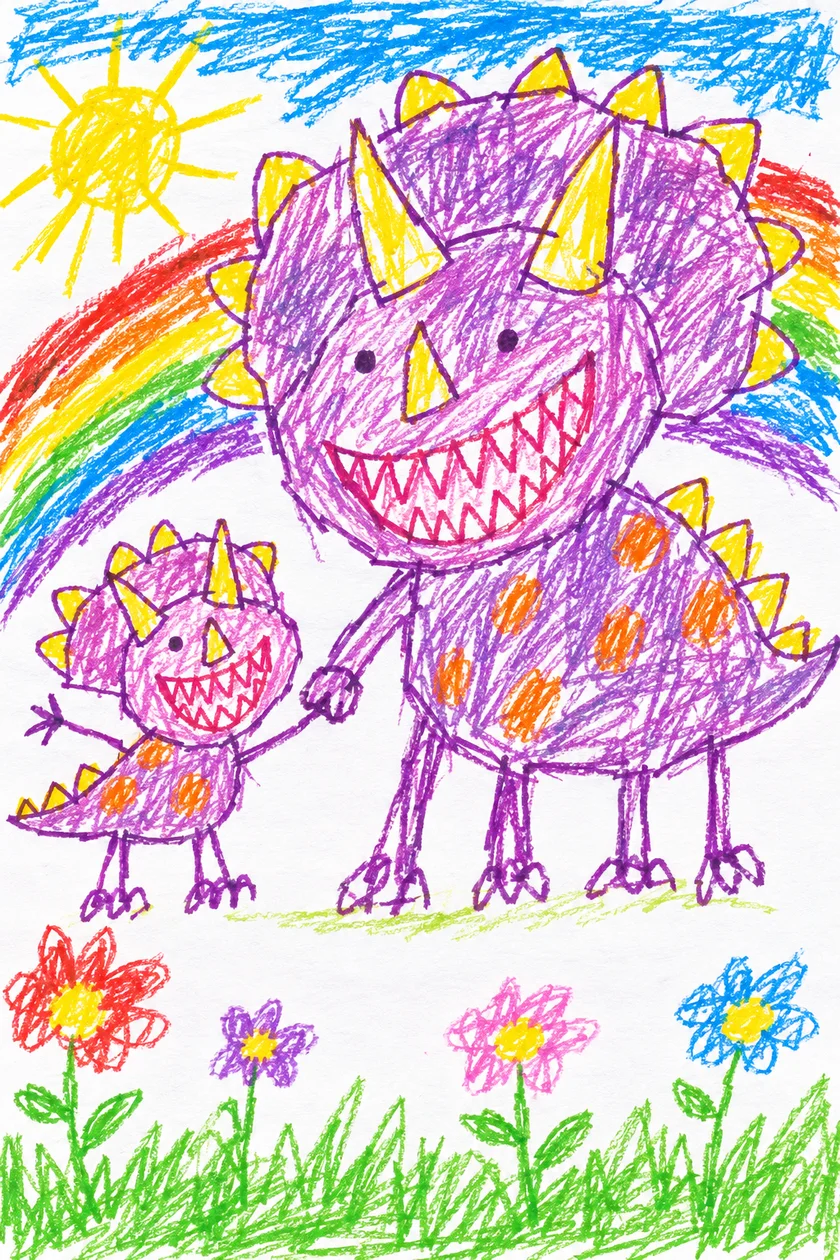
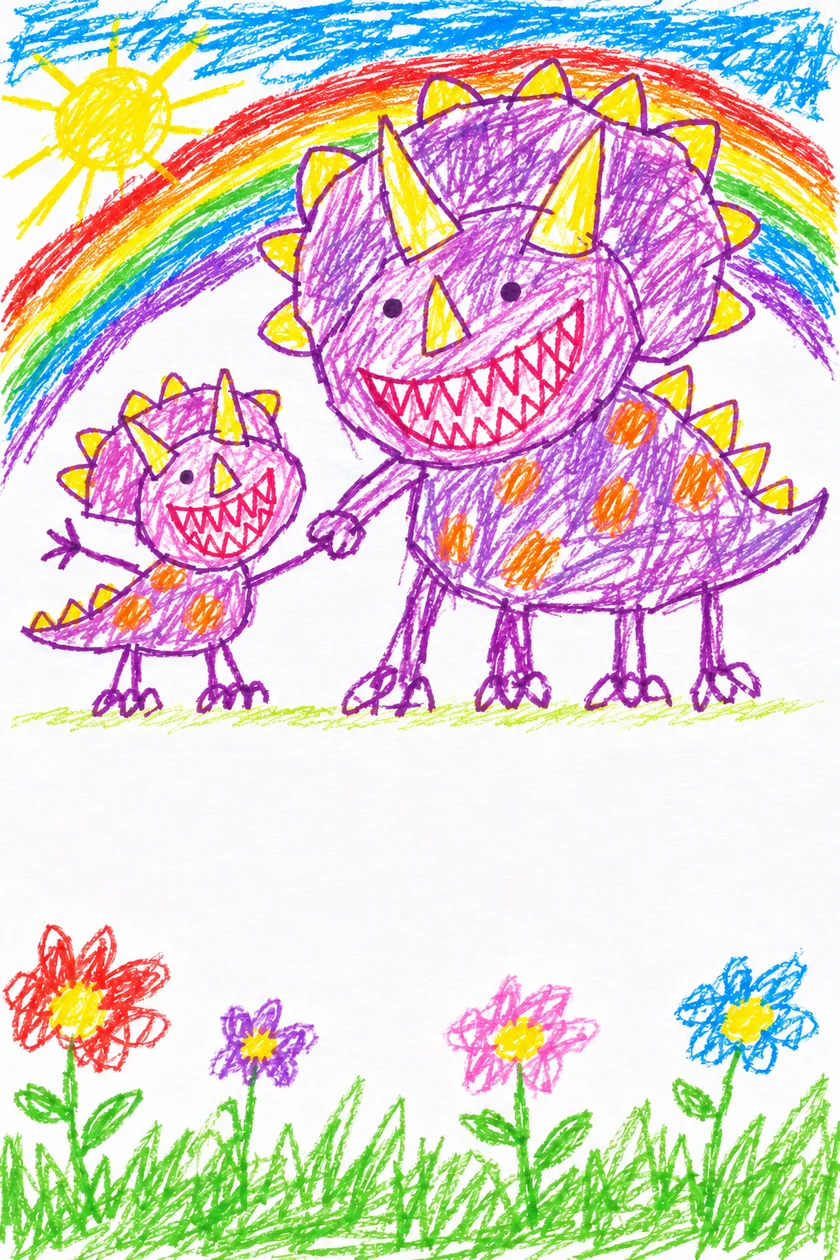
Redraw five full-art cards so their subjects clear the printed details
- Brachiosaurus secret rare, Mosasaurus, Diplodocus and Brachiosaurus
  ultra rares: heads moved down, clear of the name and power; the
  Brachiosaurus ultra is also rescaled so it reads as tree-sized
- Baby Triceratops ultra rare: both figures moved into the top half
- art.mjs gains a tweak command that redraws one picture with a change
  and keeps the previous version; full-art prompts now ask for the top
  sixth to be background only
- Brachiosaurus secret rare foil spots moved to match
- Drop the artist names duplicated in art.mjs; build-set.py owns them

diff --git a/scripts/build-set.py b/scripts/build-set.py
@@ -300,7 +300,7 @@ SPOTS = {
     'spino-secret': [(30, 15, 36, 30), (17, 8, 71, 8), (62, 11, 50, 69)],     # its sail, the moon, the water
     'trike-secret': [(42, 8, 52, 8), (16, 12, 82, 22), (46, 11, 52, 56)],      # the rainbow, the waterfall, the babies
     'raptor-secret': [(15, 8, 72, 8), (38, 15, 58, 38), (64, 9, 50, 86)],      # the moon, the lead raptor, the glowing ground
-    'brachio-secret': [(32, 10, 26, 10), (30, 18, 30, 44), (34, 9, 70, 63)],   # the sun, the nearest Brachiosaurus, the river
+    'brachio-secret': [(34, 11, 28, 24), (30, 17, 52, 46), (34, 9, 76, 60)],   # the sun, the nearest Brachiosaurus, the river
 }
 
 # How much stronger the alternate-art versions are than their base card.
